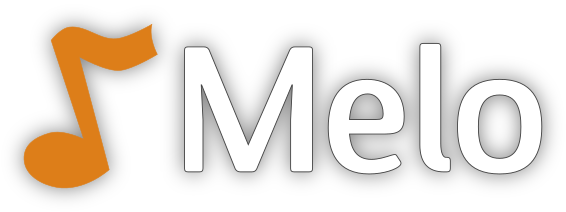
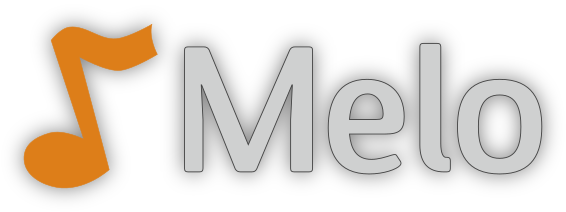
build: add `text` and change dark color
The `text` variant is added and the white color for `dark` version is
moved to a less "bright" white. Finally, a `dark` version of the base
logo is added.

Changed region(s): [[0.3004, 0.1981, 0.9611, 0.8208]]

diff --git a/README.md b/README.md
@@ -16,8 +16,12 @@ The main font used for rendering text is based on `Designosaur` and can be downl
 To install the font from command line:
 
 ```sh
-wget -O /tmp/font.zip https://dl.dafont.com/dl/?f=designosaur && unzip /tmp/font.zip -d ~/.local/share/fonts/
+wget -O /tmp/font.zip https://dl.dafont.com/dl/?f=designosaur && sudo unzip /tmp/font.zip -d /usr/local/share/fonts
 ```
+
+> [!NOTE]
+> Since Bazel is using a sandbox with a different user, the font is not available if installed only
+> for local user...
 
 To export **SVG** graphics, `inkscape` is internally used. To install on a Debian / Ubuntu
 distribution:
